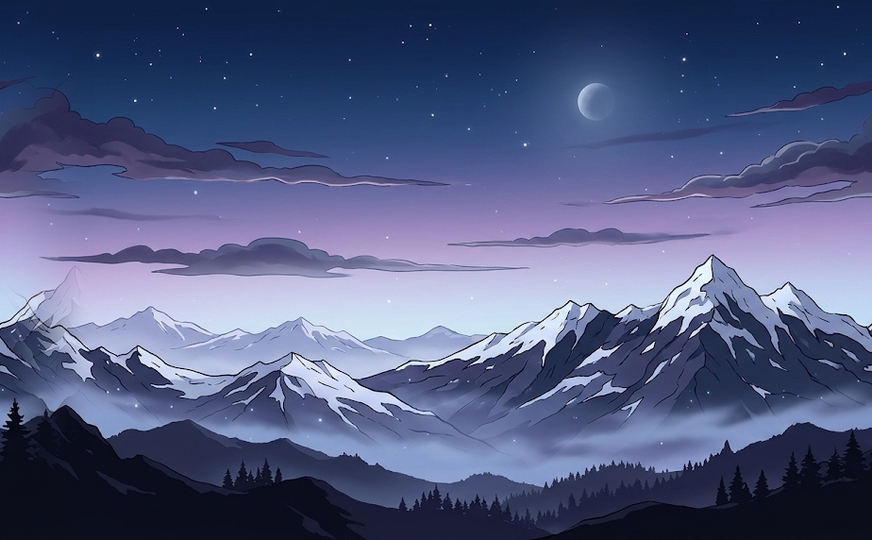
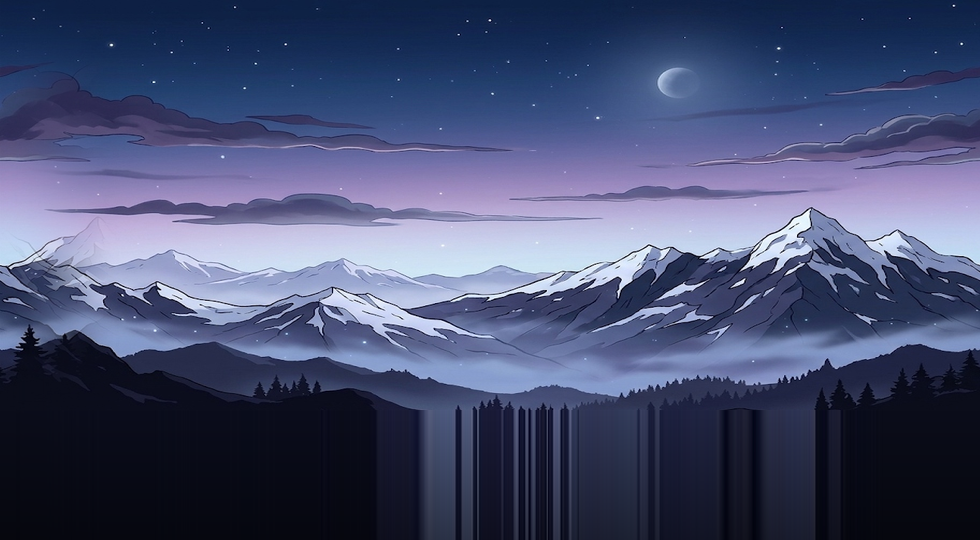
fix(ui & cenario): remove controles mobile para foco em PC e ajusta composicao e altura do cenario

diff --git a/src/scenes/SandboxScene.ts b/src/scenes/SandboxScene.ts
@@ -1,7 +1,6 @@
 import Phaser from 'phaser';
 import { Player } from '../entities/Player';
 import { TrainingDummy } from '../entities/TrainingDummy';
-import { TouchController } from '../ui/TouchController';
 
 export class SandboxScene extends Phaser.Scene {
   private player!: Player;
@@ -11,18 +10,17 @@ export class SandboxScene extends Phaser.Scene {
 
   // DOM HUD
   private telemetryEl: HTMLElement | null = null;
-  public touchController: TouchController | null = null;
 
   // Dimensões do Mundo 2.5D
   public static readonly WORLD_WIDTH = 2000;
-  public static readonly WORLD_HEIGHT = 650;
+  public static readonly WORLD_HEIGHT = 540;
 
-  // Área Caminhável 2.5D no chão (4 eixos)
+  // Área Caminhável 2.5D no chão (4 eixos no plano da floresta)
   public static readonly BOUNDS = {
     minX: 60,
     maxX: 1940,
-    minY: 260, // Limite superior (norte / fundo do cenário)
-    maxY: 460, // Limite inferior (sul / frente do cenário)
+    minY: 360, // Limite superior (norte / início da mata ao pé das montanhas)
+    maxY: 490, // Limite inferior (sul / borda frontal da pista)
   };
 
   constructor() {
@@ -90,21 +88,18 @@ export class SandboxScene extends Phaser.Scene {
     this.createStage25D();
 
     // 2. Instancia o Alvo de Treino para testar golpes, hitstop de 40ms e recoil
-    const dummy = new TrainingDummy(this, 750, 360, false);
+    const dummy = new TrainingDummy(this, 750, 430, false);
     this.dummies.push(dummy);
 
     // 3. Instancia o Eirik com seus sprites reais
-    this.player = new Player(this, 400, 360);
+    this.player = new Player(this, 320, 430);
 
-    // 4. Configura a câmera suave seguindo o jogador
+    // 4. Configura a câmera suave seguindo o jogador horizontalmente (visão cinematográfica 2.5D)
     this.cameras.main.setBounds(0, 0, SandboxScene.WORLD_WIDTH, SandboxScene.WORLD_HEIGHT);
     this.cameras.main.startFollow(this.player, true, 0.12, 0.12);
     this.cameras.main.setRoundPixels(true);
 
-    // 5. Inicializa os Controles de Toque e Joystick Virtual Responsivo
-    this.touchController = new TouchController(this.player.virtualInput);
-
-    // 6. Elementos do DOM
+    // 5. Elementos do DOM
     this.telemetryEl = document.getElementById('telemetry-info');
   }
 
@@ -129,48 +124,29 @@ export class SandboxScene extends Phaser.Scene {
   }
 
   /**
-   * Constrói o piso 2.5D estilizado com profundidade e perspectiva
+   * Constrói a ambientação da floresta 2.5D sem grades artificiais
    */
   private createStage25D() {
     this.sceneryGfx = this.add.graphics();
     this.sceneryGfx.setDepth(-10);
 
     const w = SandboxScene.WORLD_WIDTH;
-    const h = SandboxScene.WORLD_HEIGHT;
 
-    // Solo da floresta nórdica / área caminhável 2.5D
-    const floorH = SandboxScene.BOUNDS.maxY - SandboxScene.BOUNDS.minY + 40;
+    // Névoa suave na base das montanhas / início da floresta nórdica (Y ≈ 345 - 370)
+    this.sceneryGfx.fillStyle(0x0c1424, 0.45);
+    this.sceneryGfx.fillRect(0, SandboxScene.BOUNDS.minY - 20, w, 28);
+    this.sceneryGfx.fillStyle(0x101a2e, 0.25);
+    this.sceneryGfx.fillRect(0, SandboxScene.BOUNDS.minY - 10, w, 18);
 
-    // Névoa suave na base das montanhas / início do horizonte
-    this.sceneryGfx.fillStyle(0x0a101d, 0.65);
-    this.sceneryGfx.fillRect(0, SandboxScene.BOUNDS.minY - 24, w, 24);
+    // Sombra orgânica suave no chão da floresta (área caminhável 2.5D)
+    this.sceneryGfx.fillStyle(0x0a0e18, 0.35);
+    this.sceneryGfx.fillRect(0, SandboxScene.BOUNDS.minY + 10, w, SandboxScene.BOUNDS.maxY - SandboxScene.BOUNDS.minY);
 
-    // Pista de chão 2.5D (área caminhável com gradiente de perspectiva)
-    this.sceneryGfx.fillStyle(0x131d2e, 0.94);
-    this.sceneryGfx.fillRect(0, SandboxScene.BOUNDS.minY, w, floorH);
-
-    // Friso de separação da floresta / início do solo
-    this.sceneryGfx.lineStyle(2, 0x24354f, 0.9);
-    this.sceneryGfx.lineBetween(0, SandboxScene.BOUNDS.minY, w, SandboxScene.BOUNDS.minY);
-
-    // Faixas horizontais de perspectiva suave (guias de profundidade)
-    this.sceneryGfx.lineStyle(1, 0x1e293b, 0.5);
-    for (let y = SandboxScene.BOUNDS.minY; y <= SandboxScene.BOUNDS.maxY; y += 40) {
-      this.sceneryGfx.lineBetween(0, y, w, y);
-    }
-
-    // Linhas verticais espaçadas para medir deslocamento horizontal
-    for (let x = 0; x < w; x += 80) {
-      this.sceneryGfx.lineBetween(x, SandboxScene.BOUNDS.minY, x, SandboxScene.BOUNDS.maxY + 20);
-    }
-
-    // Borda inferior da pista (fim do chão / rodapé visual)
-    this.sceneryGfx.lineStyle(3, 0x38bdf8, 0.8);
-    this.sceneryGfx.lineBetween(0, SandboxScene.BOUNDS.maxY + 20, w, SandboxScene.BOUNDS.maxY + 20);
-
-    // Abismo / rodapé escuro inferior abaixo da pista
-    this.sceneryGfx.fillStyle(0x070b12, 1);
-    this.sceneryGfx.fillRect(0, SandboxScene.BOUNDS.maxY + 22, w, h - (SandboxScene.BOUNDS.maxY + 22));
+    // Vinheta / profundidade atmosférica na borda inferior do cenário (Y >= 495)
+    this.sceneryGfx.fillStyle(0x060910, 0.55);
+    this.sceneryGfx.fillRect(0, SandboxScene.BOUNDS.maxY + 5, w, 40);
+    this.sceneryGfx.fillStyle(0x030508, 0.90);
+    this.sceneryGfx.fillRect(0, SandboxScene.BOUNDS.maxY + 25, w, 30);
   }
 
   /**

diff --git a/src/entities/TrainingDummy.ts b/src/entities/TrainingDummy.ts
@@ -20,11 +20,11 @@ export class TrainingDummy extends Phaser.GameObjects.Container {
     this.add(this.gfx);
 
     // Texto de HP no topo
-    this.hpText = scene.add.text(0, -this.height - 18, 'ALVO 100%', {
+    this.hpText = scene.add.text(0, -this.height - 14, '100 HP', {
       fontFamily: 'monospace',
-      fontSize: '11px',
-      color: '#f43f5e',
-      stroke: '#000',
+      fontSize: '10px',
+      color: '#facc15',
+      stroke: '#0f172a',
       strokeThickness: 3,
     }).setOrigin(0.5, 0.5);
     this.add(this.hpText);
@@ -37,7 +37,8 @@ export class TrainingDummy extends Phaser.GameObjects.Container {
     this.body.setImmovable(true);
     this.body.setAllowGravity(!isSuspended);
 
-    this.drawDummy(0xbe123c, 0xfecdd3);
+    // Visual rústico de tronco de treino viking (madeira escura e brasão dourado)
+    this.drawDummy(0x45311f, 0xf59e0b);
   }
 
   private drawDummy(fillColor: number, accentColor: number) {
@@ -48,24 +49,29 @@ export class TrainingDummy extends Phaser.GameObjects.Container {
     const x = -w / 2;
     const y = -h;
 
-    // Suporte / Base
-    this.gfx.fillStyle(0x334155, 1);
+    // Suporte / Base de pedra e ferro fincada na terra
+    this.gfx.fillStyle(0x1e293b, 1);
     this.gfx.fillRect(x - 4, y + h - 8, w + 8, 8);
 
-    // Corpo principal do boneco
+    // Corpo de madeira do boneco
     this.gfx.fillStyle(fillColor, 1);
-    this.gfx.fillRoundedRect(x, y, w, h - 8, 8);
+    this.gfx.fillRoundedRect(x, y, w, h - 8, 6);
 
-    // Borda preta firme (pixel art)
+    // Cinta de ferro forjado reforçando o tronco
+    this.gfx.fillStyle(0x334155, 0.9);
+    this.gfx.fillRect(x, y + 10, w, 5);
+    this.gfx.fillRect(x, y + h - 18, w, 5);
+
+    // Borda rústica firme (pixel art)
     this.gfx.lineStyle(2, 0x0f172a, 1);
-    this.gfx.strokeRoundedRect(x, y, w, h - 8, 8);
+    this.gfx.strokeRoundedRect(x, y, w, h - 8, 6);
 
-    // Círculos concêntricos de alvo no peito
+    // Brasão rúnico de mira no peito
     const cy = y + (h - 8) / 2;
     this.gfx.lineStyle(2, accentColor, 1);
-    this.gfx.strokeCircle(0, cy, 14);
+    this.gfx.strokeCircle(0, cy, 12);
     this.gfx.fillStyle(accentColor, 1);
-    this.gfx.fillCircle(0, cy, 5);
+    this.gfx.fillCircle(0, cy, 4);
 
     // Linhas cruzadas de mira
     this.gfx.lineStyle(1, accentColor, 0.8);
@@ -75,7 +81,7 @@ export class TrainingDummy extends Phaser.GameObjects.Container {
 
   public takeHit(damage: number, knockDir: number = 0, isPogo: boolean = false) {
     this.currentHp = Math.max(0, this.currentHp - damage);
-    this.hpText.setText(`ALVO ${this.currentHp}%`);
+    this.hpText.setText(`${this.currentHp} HP`);
     this.hpText.setScale(1.3);
     this.scene.tweens.add({
       targets: this.hpText,
@@ -87,7 +93,7 @@ export class TrainingDummy extends Phaser.GameObjects.Container {
     // Flash branco
     this.drawDummy(0xffffff, 0xffffff);
     this.scene.time.delayedCall(80, () => {
-      this.drawDummy(0xbe123c, 0xfecdd3);
+      this.drawDummy(0x45311f, 0xf59e0b);
     });
 
     // Tremor do boneco

diff --git a/src/style.css b/src/style.css
@@ -136,71 +136,12 @@ html, body {
 }
 
 /* ==========================================================================
-   BOTÃO DE ALTERNAR TOQUE NA BARRA SUPERIOR
+   DESATIVADO: CONTROLES DE CELULAR (JOGO APENAS PARA PC)
    ========================================================================== */
-.touch-toggle-pill {
-  background: rgba(56, 189, 248, 0.15);
-  border: 1px solid rgba(56, 189, 248, 0.4);
-  color: #7dd3fc;
-  border-radius: 20px;
-  font-size: 11px;
-  font-weight: 700;
-  padding: 4px 10px;
-  cursor: pointer;
-  display: flex;
-  align-items: center;
-  gap: 4px;
-  transition: all 0.15s ease;
-}
-
-.touch-toggle-pill:hover,
-.touch-toggle-pill.active {
-  background: rgba(56, 189, 248, 0.35);
-  border-color: #38bdf8;
-  color: #ffffff;
-  box-shadow: 0 0 8px rgba(56, 189, 248, 0.4);
-}
-
-/* ==========================================================================
-   AVISO DE ROTAÇÃO NO CELULAR (EM PÉ -> DEITADO)
-   ========================================================================== */
-#orientation-hint {
-  display: none;
-  position: fixed;
-  top: 58px;
-  left: 50%;
-  transform: translateX(-50%);
-  background: rgba(234, 88, 12, 0.95);
-  color: #ffffff;
-  padding: 6px 14px;
-  border-radius: 20px;
-  font-size: 11px;
-  font-weight: 700;
-  z-index: 2000;
-  box-shadow: 0 4px 14px rgba(0, 0, 0, 0.6);
-  pointer-events: none;
-  text-align: center;
-  white-space: nowrap;
-}
-
-@media (max-width: 900px) and (orientation: portrait) {
-  #orientation-hint {
-    display: block;
-  }
-}
-
-/* ==========================================================================
-   CAMADA DE CONTROLES DE TOQUE (JOYSTICK + BOTÕES DE AÇÃO)
-   ========================================================================== */
+.touch-toggle-pill,
+#orientation-hint,
 #touch-controls-layer {
-  position: fixed;
-  inset: 0;
-  pointer-events: none;
-  z-index: 1500;
-  user-select: none;
-  -webkit-user-select: none;
-  touch-action: none;
-  -webkit-touch-callout: none;
+  display: none !important;
 }
 
 .touch-zone {

diff --git a/index.html b/index.html
@@ -7,20 +7,12 @@
     <link rel="stylesheet" href="/src/style.css" />
   </head>
   <body>
-    <!-- Aviso de rotação no celular -->
-    <div id="orientation-hint">🔄 Gire o celular para a horizontal para melhor visão</div>
-
     <!-- Barra Superior Minimalista -->
     <header id="top-bar">
       <div class="brand">
         <span class="game-title">RAGNARÖK</span>
         <span class="phase-tag">2.5D</span>
       </div>
-
-      <!-- Botão para alternar controles de toque manualmente se desejado -->
-      <button id="btn-toggle-touch" class="touch-toggle-pill" title="Alternar Joystick e Botões de Toque">
-        🎮 Toque
-      </button>
 
       <!-- Guia de Controles dos 4 Eixos + Pulo + Dash + Ataques -->
       <div class="mechanics-guide">
